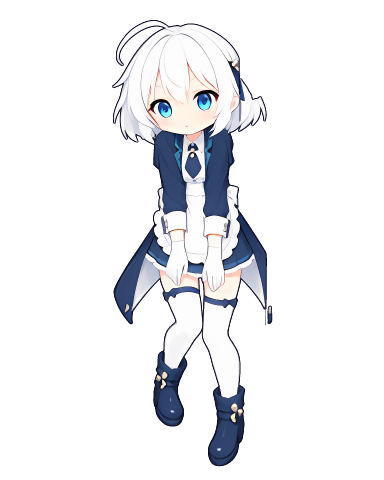
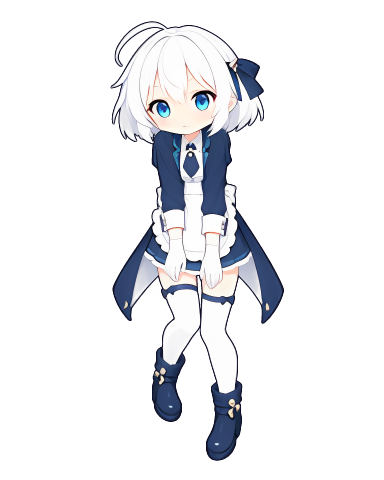
被拎起来那一帧补回蝴蝶结：抠领口尖时把整列都清掉了
make_held.py 抠掉头顶那个「被捏起的领口」尖之后，还会把「每一列第一个白头发像素以上」
剩下的零星像素清掉，本意是清尖顶的高光残渣，但这一步是在整张图上做的。蝴蝶结压在
白头发上面，所在的几列从上到下都被清空，只剩垂在头发上的一截飘带；右边衣摆和右袖的
外沿也被这样切掉了一块。现在只在尖的包围盒外扩 12 像素以内清。

蝴蝶结回来以后，按头宽对齐量到的那一行和站立图一样都含蝴蝶结，缩放从 0.1631
变成 0.1610（小了约 1%），抓手点跟着从 (96.0, 9.7) 挪到 (96.3, 9.8)。
held.png、held@2x.png（超分 + 0.5 点描边）、base-animations.json 的抓手点、
顶层 assets/ 镜像、校验和与 README 的拖动动图一起更新。

Changed region(s): [[0.2812, 0.0312, 0.75, 0.9062], [0.5312, 0.7188, 0.6562, 0.9688]]

diff --git a/YukioPlayer/tools/hang/make_held.py b/YukioPlayer/tools/hang/make_held.py
@@ -32,6 +32,7 @@ W, H = 192, 240
 HAIR_TOP = 16          # 头发顶端所在行，与 neutral.png 相同
 GRIP_ABOVE_HAIR = 6    # 抓手点在头发顶端上方几行（空处：大手看不见）
 ALPHA = 24
+PEAK_MARGIN = 12       # 清尖顶残留时，只清尖的包围盒外扩这么多像素（源图像素）以内
 
 
 def mask(image: Image.Image) -> np.ndarray:
@@ -115,8 +116,13 @@ def drop_collar_peak(image: Image.Image) -> Image.Image:
         above[:rows[0] if len(rows) else peak.shape[0], x] = True
     a[..., 3] = np.where(peak | ((_dilate(peak, 3) & ~peak) & above), 0, alpha)
 
-    # 尖顶的高光会剩一小撮：头发轮廓以上剩下的零星像素一并清掉。
-    left = (a[..., 3] > ALPHA) & above
+    # 尖顶的高光会剩一小撮：头发轮廓以上剩下的零星像素一并清掉。只在尖附近清：`above` 是按列算的
+    # 「这一列第一个白头发像素以上」，整张图都这么清的话，蝴蝶结（压在白头发上面）会被整个删掉。
+    py, px = np.where(peak)
+    near = np.zeros_like(peak)
+    near[max(py.min() - PEAK_MARGIN, 0):py.max() + PEAK_MARGIN + 1,
+         max(px.min() - PEAK_MARGIN, 0):px.max() + PEAK_MARGIN + 1] = True
+    left = (a[..., 3] > ALPHA) & above & near
     a[..., 3] = np.where(left, 0, a[..., 3])
     return Image.fromarray(a.astype(np.uint8))
 
